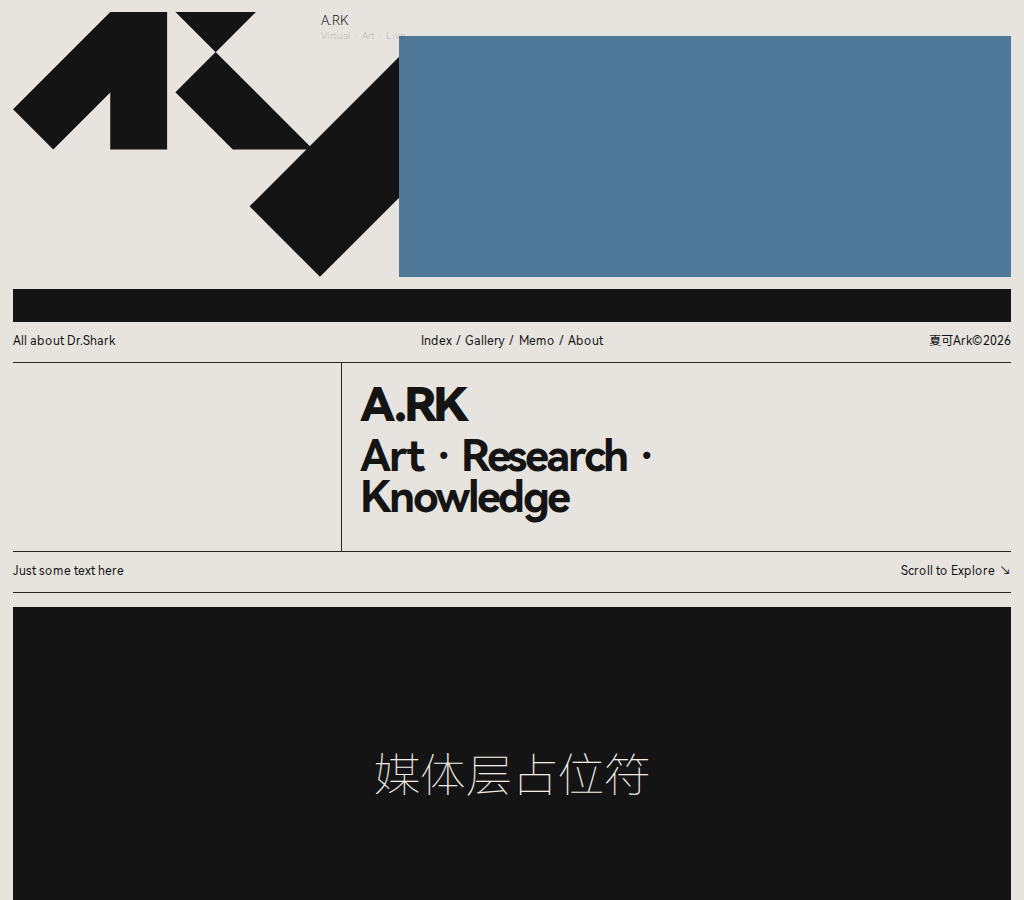
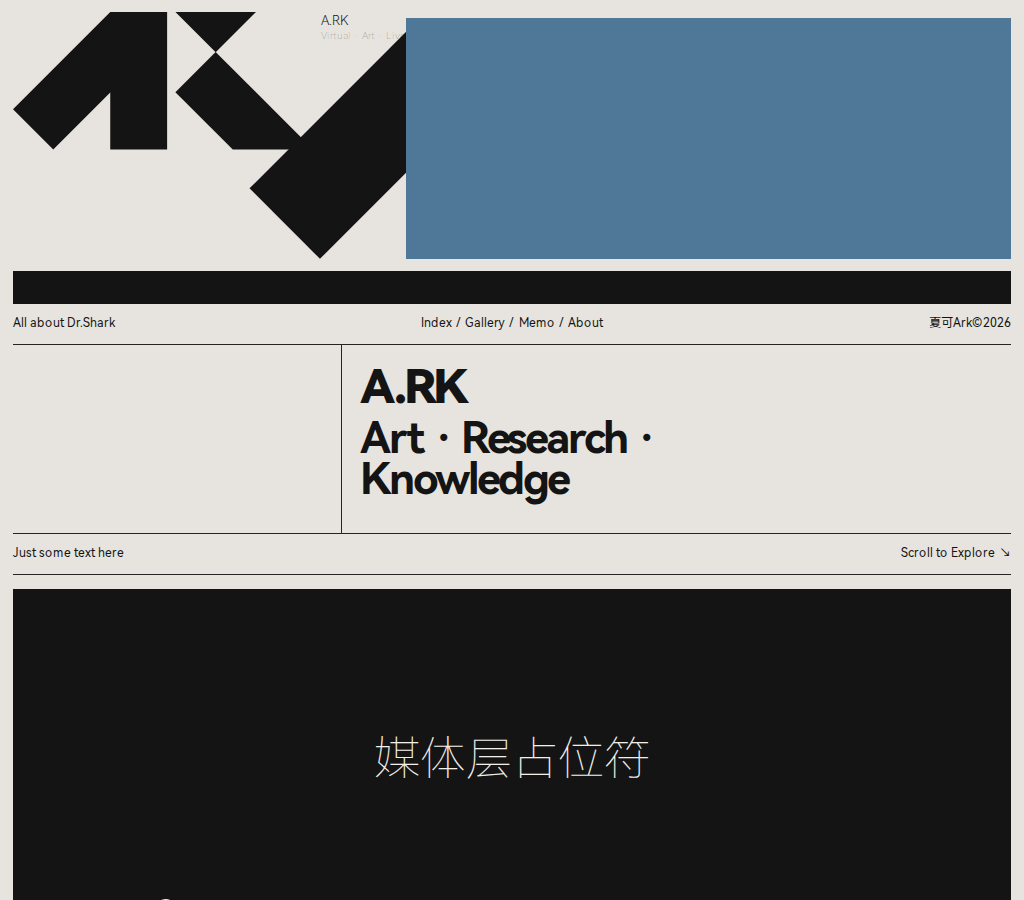
feat: continue hero top calibration across desktop and mobile

Changed region(s): [[0.0, 0.0, 1.0, 0.5911], [0.0, 0.5911, 1.0, 0.6844], [0.3438, 0.8089, 0.625, 0.9022]]

diff --git a/PLAN.md b/PLAN.md
@@ -56,6 +56,19 @@
 ## Status Log
 ### 2026-04-21
 - Completed:
+  - 继续推进顶部构图校准：收紧桌面 hero 顶部留白（`.ref-home__hero`）、微调主 logo 与蓝色块比例，压低 1024/1280 的结构漂移。
+  - 细调 `<=640` hero 比例与 logo 宽度，恢复并提升 `430` 断点拟合度。
+  - 刷新固定审图集到 `Homepage/review-shots/latest/{430-top,1024-top,1280-top,1280-full}.png`。
+- Next:
+  - 继续修复 1280 顶图中主 logo 与蓝色块交叉点位置（当前仍偏右），并收敛导航与 intro 分割线厚度差。
+  - 进入 feature panel/floor spacing 的纵向节奏校准，避免 1280 full 提前露出黑色媒体面板。
+- Blocked:
+  - 无真实阻塞；目前仅是视觉未完全收敛。
+- Verification:
+  - `npm run check`
+  - `npm run verify:ark`
+
+- Completed:
   - 继续推进 Stage 2/3：针对 `430` 顶区重排移动端 hero/info 节奏，压缩首屏高度并校正导航信息层级。
   - 在 `max-width:640px` 下调整 `hero-stage` 比例、logo 与蓝色块尺寸及位置，减少与 `web-ref-430` 的构图偏差。
   - 移动端导航改为两行紧凑布局（隐藏左侧描述、保留 links + 版权行），并微调 intro 左栏宽度。
